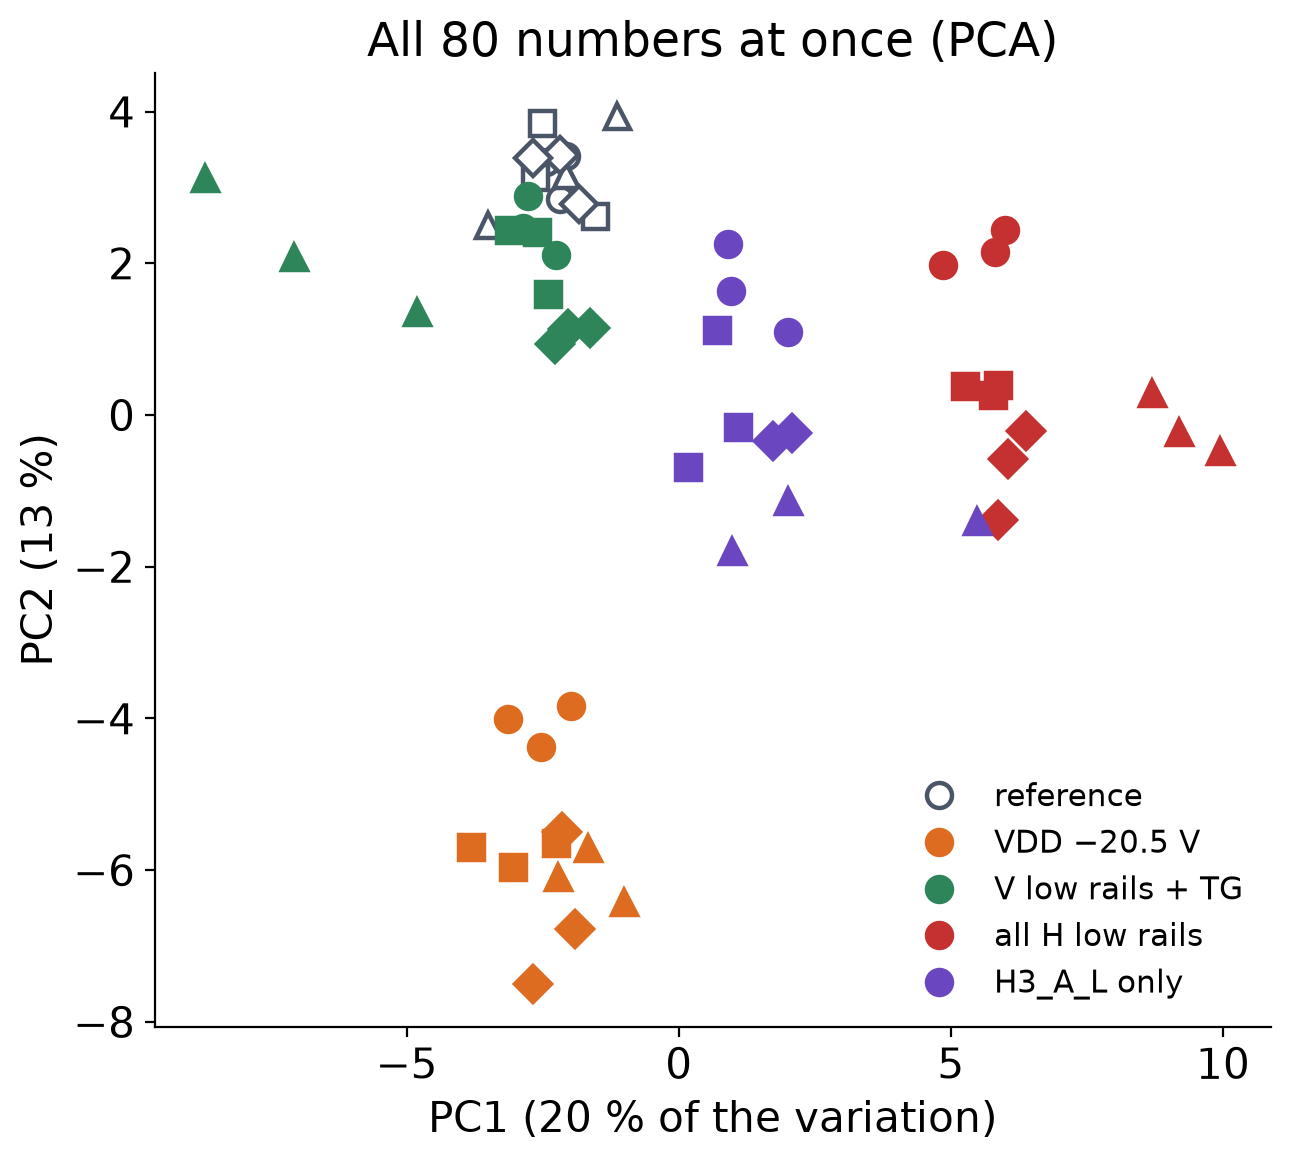
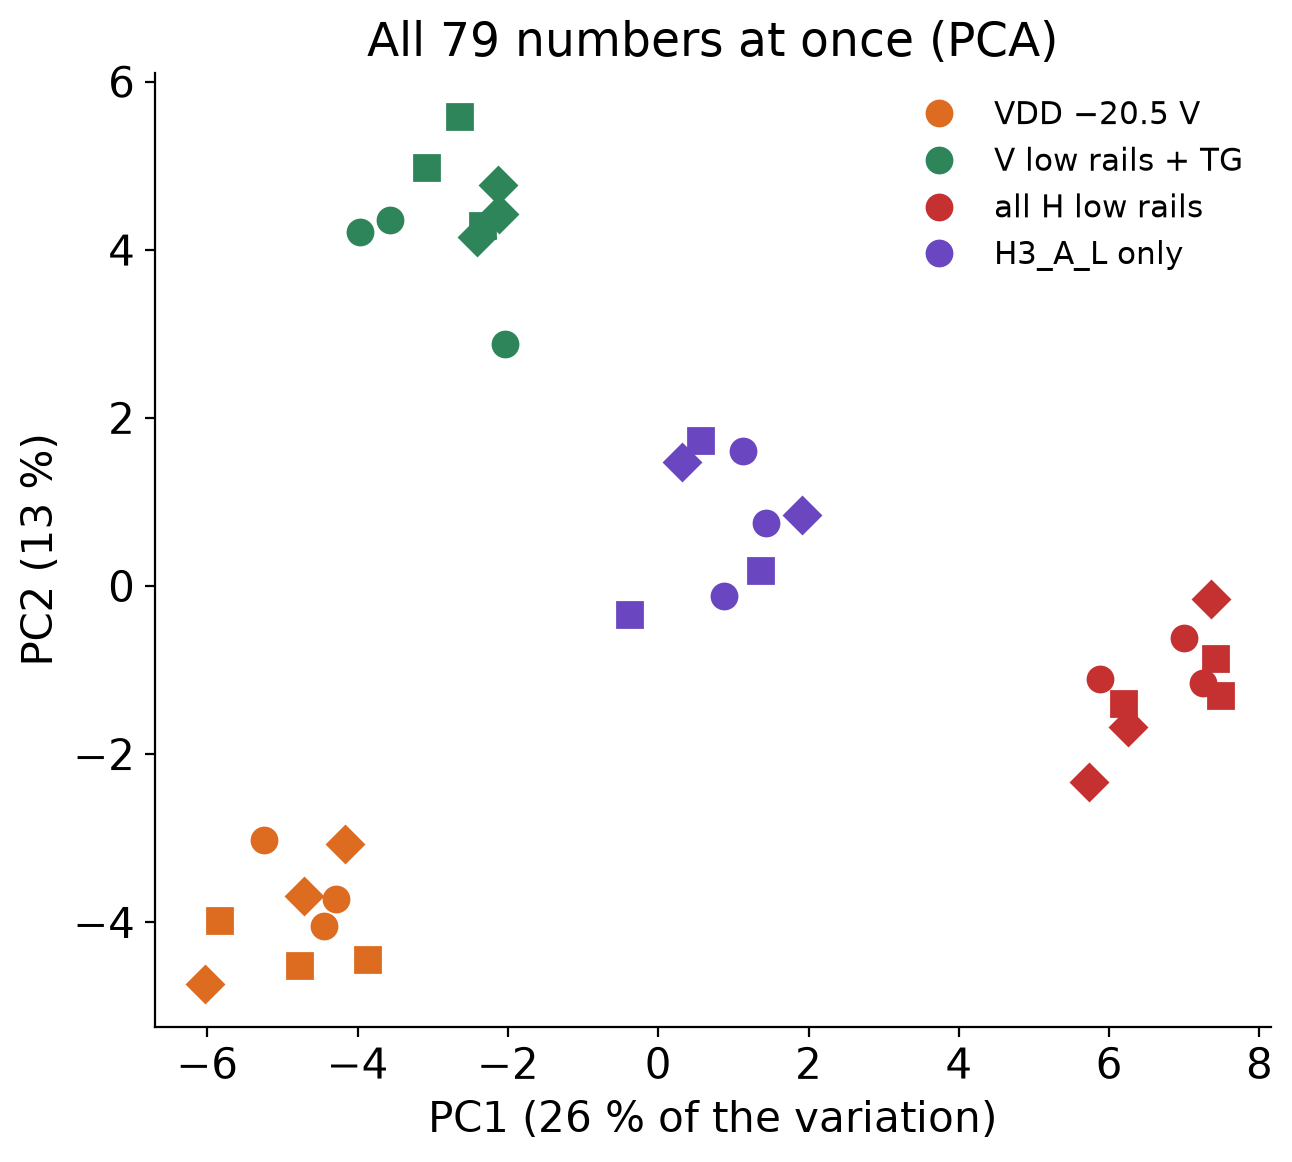
Slides: PCA without the reference (different NCOLPRE) and both hand-number plots without ch2 (the noisy amplifier); distance rule 35/35 on the same traces

diff --git a/docs/slides/make_slide_figures.py b/docs/slides/make_slide_figures.py
@@ -506,9 +506,9 @@ def h_separation():
     panels = [("horizontal: minimum", "H-transfer minimum"), ("vertical: minimum", "V-transfer minimum"),
               ("slow: H-transfer peak-to-peak (ADU)", "H-transfer peak-to-peak"), ("skip: CDS rms (detrended)", "noise per skip (CDS rms)")]
     fig, axes = plt.subplots(1, 4, figsize=(17, 5.4), sharey=False)
-    markers = ["o", "s", "^", "D"]
+    markers = {0: "o", 1: "s", 3: "D"}
     for ax, (f, name) in zip(axes, panels):
-        for ch in range(4):
+        for ch in H_CHANNELS:
             ref = df[(df.group == "reference") & (df.channel == ch)][f].mean()
             for i, g in enumerate(GROUPS):
                 v = df[(df.group == g) & (df.channel == ch)][f]
@@ -552,16 +552,22 @@ def m_cv():
     plt.close(fig)
 
 
+#: amplifiers shown on the hand-made-number slides (ch2, the noisy amplifier whose images are flagged, is left out)
+H_CHANNELS = (0, 1, 3)
+
+
 def h_pca():
-    """All usable trace numbers at once: principal components of the 59 traces (each amplifier relative to its own reference)."""
+    """All usable trace numbers at once: principal components of the traces at the four changed settings
+    (no reference: it was taken with a different NCOLPRE; ch2 left out). Each amplifier is centred on its own mean."""
     df = pd.read_csv(DATA / "oct12_trace_features.csv")
+    df = df[(df.group != "reference") & df.channel.isin(H_CHANNELS)].reset_index(drop=True)
     feats = [c for c in df.columns if c not in ("file", "channel", "group", "NCOLPRE", "repeat") and "row-start" not in c]
     X = df[feats]
     X = X.loc[:, X.notna().mean() > 0.95]
     X = X.fillna(X.median())
-    for ch in range(4):                                   # remove each amplifier's own level: its reference mean
+    for ch in H_CHANNELS:                                 # remove each amplifier's own level
         m = df.channel == ch
-        X.loc[m] = X.loc[m] - X.loc[m & (df.group == "reference")].mean()
+        X.loc[m] = X.loc[m] - X.loc[m].mean()
     sd = X.std(ddof=1).replace(0, np.nan)
     Z = (X / sd).dropna(axis=1)
     Z = Z - Z.mean()
@@ -569,12 +575,11 @@ def h_pca():
     ev = S ** 2 / np.sum(S ** 2)
     pc = Z.values @ Vt[:2].T
     fig, ax = plt.subplots(figsize=(7.2, 6.2))
-    markers = ["o", "s", "^", "D"]
-    for g in GROUPS:
-        for ch in range(4):
+    markers = {0: "o", 1: "s", 3: "D"}
+    for g in GROUPS[1:]:
+        for ch in H_CHANNELS:
             m = ((df.group == g) & (df.channel == ch)).values
-            ax.plot(pc[m, 0], pc[m, 1], markers[ch], ms=9, color=GROUP_COLORS[g], mfc=GROUP_COLORS[g] if g != "reference" else "white",
-                    mew=1.6, label=g if ch == 0 else None)
+            ax.plot(pc[m, 0], pc[m, 1], markers[ch], ms=9, color=GROUP_COLORS[g], label=g if ch == 0 else None)
     ax.set_xlabel(f"PC1 ({100 * ev[0]:.0f} % of the variation)")
     ax.set_ylabel(f"PC2 ({100 * ev[1]:.0f} %)")
     ax.set_title(f"All {Z.shape[1]} numbers at once (PCA)")
